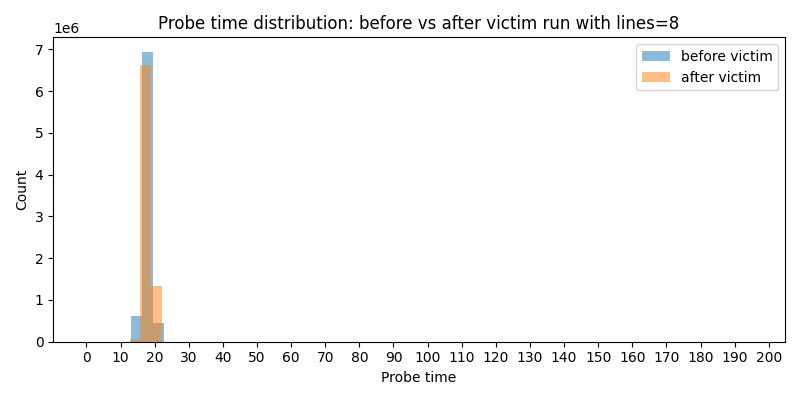
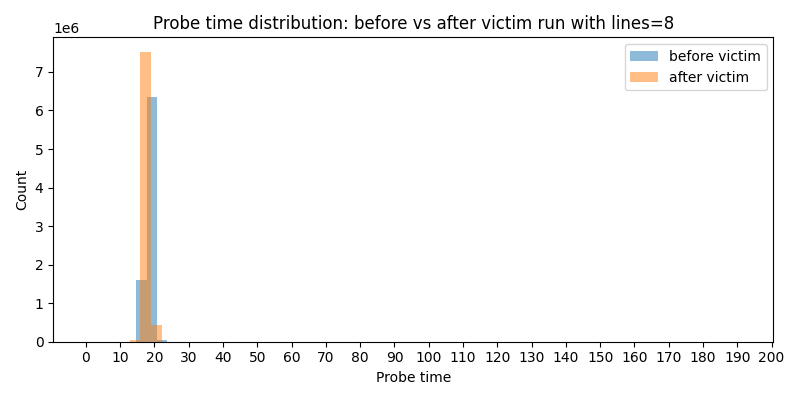
const

diff --git a/read_test17_results.py b/read_test17_results.py
@@ -23,13 +23,13 @@ def read_results(file_path, lines):
     plt.title(f"Probe time distribution: before vs after victim run with lines={lines}")
     plt.legend()
     plt.tight_layout()
-    plt.savefig(f'test_set17_lines{lines}.png')
+    plt.savefig(f'./results/test_set17_lines{lines}.png')
     plt.show()
 
 
 def main():
     parser = argparse.ArgumentParser()
-    parser.add_argument("file", type=str, help="path to the CSV file containing the results", default="test17_results.csv")
+    parser.add_argument("file", type=str, help="path to the CSV file containing the results", default="./results/test17_results.csv")
     parser.add_argument("l", type=int, help="lines used by victim from 0 to 12", default=1)
     args = parser.parse_args()
     read_results(args.file, args.l)

diff --git a/pp.c b/pp.c
@@ -182,7 +182,7 @@ int main(void)
         memset(&results, 0, sizeof(results));
         prime();
         probe17(results.before);
-        victim(set_order[17], 8);
+        victim(set_order[17], 6);
         probe17(results.after);
         // if (results.before[0] > 500 || results.after[0] > 500)
         // {